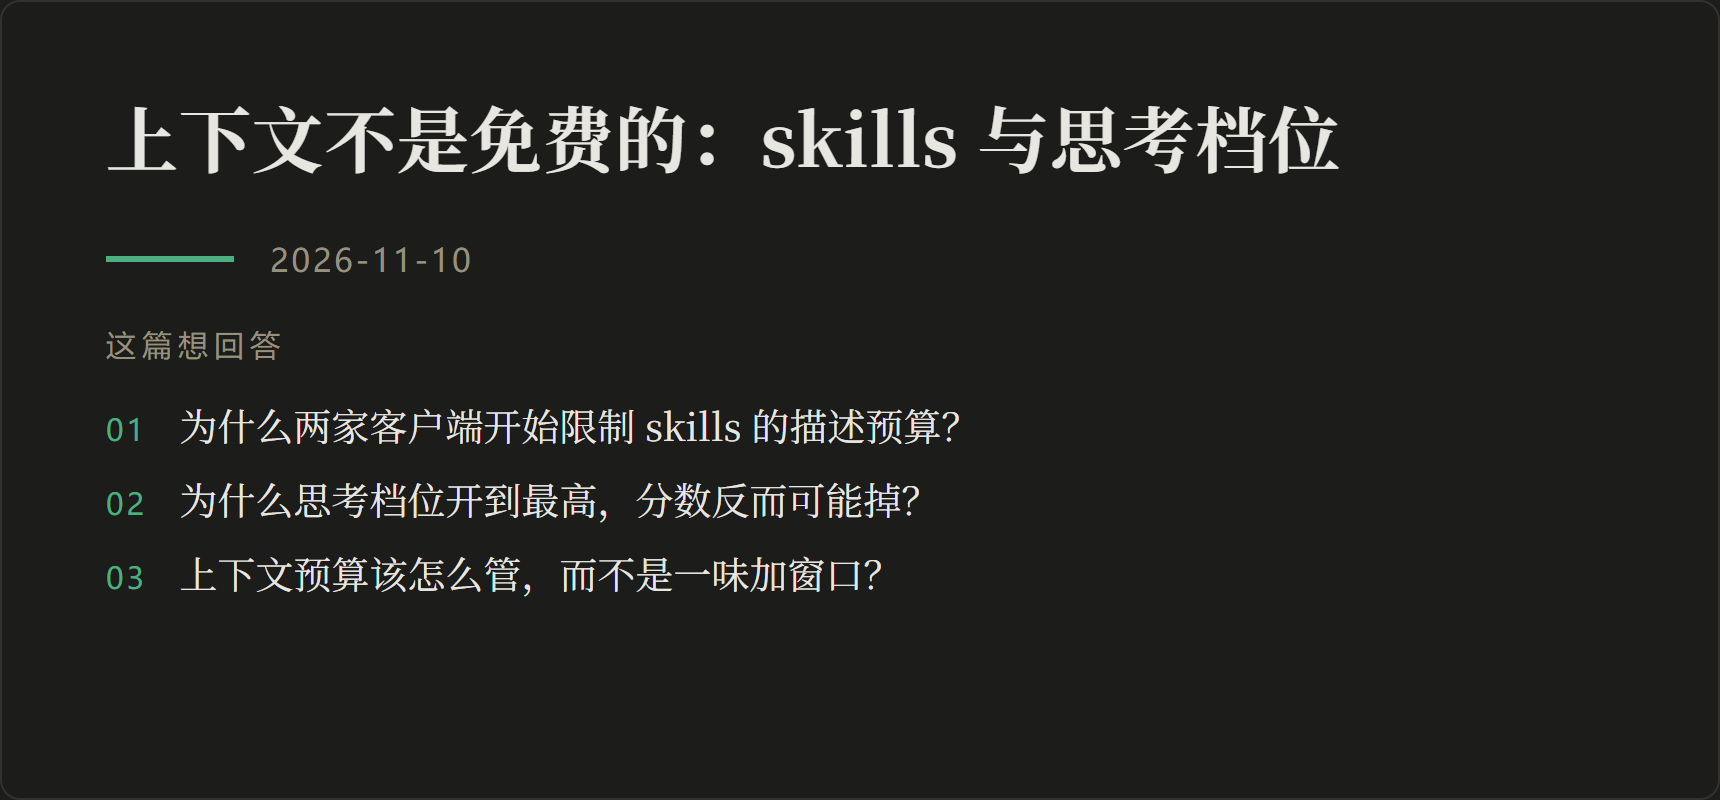
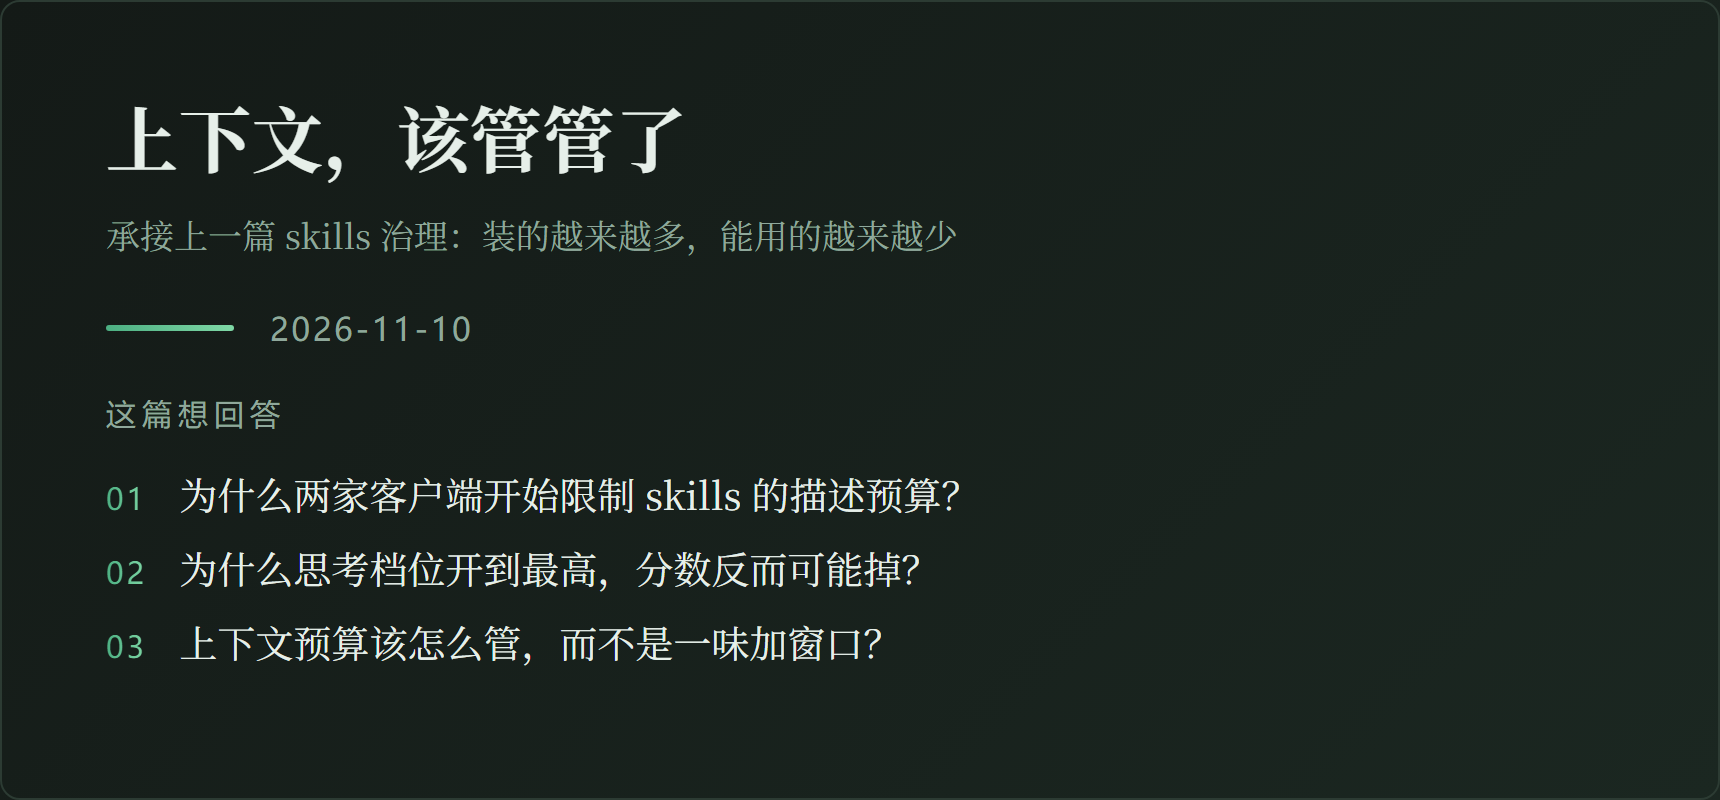
post: 第二篇改版——人话标题+副标题、补上下文治理背景；卡片转淡绿灰渐变色系

diff --git a/scripts/render_cards.py b/scripts/render_cards.py
@@ -22,10 +22,10 @@ SERIES = {
     "和 AI 协作的方式": ("#B5651D", "#E09A4F"),
 }
 THEME = {
-    "light": dict(bg="#F7F6F3", border="#E2E0DA", text="#24292F", muted="#8A8578", hair="#D8D5CC"),
-    "dark":  dict(bg="#1C1C1A", border="#33322E", text="#E8E6E1", muted="#96917F", hair="#3A3833"),
+    "light": dict(bg="linear-gradient(135deg,#F4F7F5 0%,#E8F0EB 100%)", border="#D3DED8", text="#1E2B25", muted="#75877E"),
+    "dark":  dict(bg="linear-gradient(135deg,#141A17 0%,#1B2721 100%)", border="#2C3B33", text="#E6EFE9", muted="#8FA89B"),
 }
-ACCENT = {"light": "#1F7A52", "dark": "#4CAF82"}
+ACCENT = {"light": "linear-gradient(90deg,#1F7A52,#0F5132)", "dark": "linear-gradient(90deg,#4CAF82,#7FD8A6)"}
 W, H = 860, 400
 
 def parse(path):
@@ -65,14 +65,16 @@ html,body{{width:{W}px;height:{H}px;background:{t['bg']}}}
  display:flex;flex-direction:column}}
 h1{{font-size:36px;line-height:1.5;font-weight:700;letter-spacing:.01em}}
 .rulerow{{display:flex;align-items:center;gap:18px;margin:24px 0 22px}}
-.rule{{width:64px;border:0;border-top:3px solid {acc}}}
+.rule{{width:64px;height:3px;border:0;border-radius:2px;background:{acc}}}
 .date{{font-size:16px;color:{t['muted']};font-family:"Microsoft YaHei",sans-serif;letter-spacing:.08em}}
+.sub{{font-size:17px;color:{t["muted"]};margin-top:10px;font-family:"Noto Serif SC",serif}}
 .lab{{font-size:15px;letter-spacing:.2em;color:{t['muted']};font-family:"Microsoft YaHei",sans-serif}}
 ul{{list-style:none;padding:0;margin-top:12px}}
 li{{font-size:19px;line-height:1.95;color:{t['text']}}}
-.n{{font-size:15px;color:{acc};letter-spacing:.1em;margin-right:16px;font-family:"Microsoft YaHei",sans-serif}}
+.n{{font-size:15px;background:{acc};-webkit-background-clip:text;background-clip:text;color:transparent;letter-spacing:.1em;margin-right:16px;font-family:"Microsoft YaHei",sans-serif}}
 </style></head><body><div class="card">
 <h1>{e(meta.get('title',''))}</h1>
+{('<p class="sub">' + e(meta.get('subtitle','')) + '</p>') if meta.get('subtitle') else ''}
 <div class="rulerow"><hr class="rule"><span class="date">{e(meta.get('date',''))}</span></div>
 <div class="lab">这篇想回答</div><ul>{qs}</ul>
 </div></body></html>"""

diff --git a/posts/2026-11-10-context-budget.md b/posts/2026-11-10-context-budget.md
@@ -15,6 +15,20 @@
 
 二是我在 Artificial Analysis 的榜单上看到一个反直觉的现象：Fable 5.2 的 max 档位在 Intelligence Index 上整体分数最高（65），但在单独的 FrontierCode 2.0 编码测试里，High 得分 49.1%、Max 只有 48.8%。更高的思考档位没有带来更好的结果。
 
+两件事看起来一个讲技能、一个讲模型，其实都在说同一件事：上下文里能放的东西是有额度的，而大家以前默认它无限。
+
+## 先补一点背景：上下文治理是怎么变成问题的
+
+早期用大模型，上下文更像"容器"：把资料贴进去，模型读完回答，装不下就分段。但 agent 起来之后，同一个窗口里同时挤进了四类东西——系统提示、工具与技能清单、对话历史、模型自己的推理链。它们不是排队进场，而是**每一轮都一起付费**。
+
+于是业界慢慢形成了三层治理手段：
+
+1. **入口层：渐进式披露（progressive disclosure）。** Agent Skills 的做法是启动时只加载每个技能的名称和描述，正文和 references 按需加载。这解决的是"东西还没用就先占着位置"。
+2. **清单层：预算与裁剪。** 当技能多到描述清单本身成为负担，客户端开始给清单设额度、截断超长描述、把手动技能移出自动清单。这解决的是"光是目录就把目录占满了"。
+3. **推理层：思考档位（reasoning effort）。** 模型在回答前生成多长的推理链，也可以调。链越长通常越强，但它自己写的中间 token 同样占上下文，还挤掉了留给任务材料的空间。
+
+这三层共同指向一件事：**上下文不是免费的空间，而是每轮都要重新结算的预算**。我上一篇讲 skills 治理时说的是"注意力被摩擦耗尽"，那是从用户侧看；这一篇是从模型侧看，两边其实是同一个约束。
+
 ## 讨论中的关键点
 
 1. **Skills 的「免费」是有额度的。** 每个技能约 100 token 的元数据，在 10 个技能时无关痛痒，在 100 个技能时就是一笔固定开销，而且每一轮对话都要重新付。Codex 会把初始 skills 清单限制在上下文窗口的约 2%（窗口未知时约 8000 字符），Claude Code 也有对应的清单预算参数。

diff --git a/README.md b/README.md
@@ -15,8 +15,7 @@
 <!-- 新增文章后在此追加一行：- YYYY-MM-DD [标题](./posts/文件名.md) -->
 
 - 2026-11-09 [Skills 花样众多，损耗的是注意力，边际效益会下降](./posts/2026-11-09-academic-tikz-merge.md) · AI 产品 · 草稿
-- 2026-11-10 [上下文不是免费的：skills 与思考档位](./posts/2026-11-10-context-budget.md) · AI 产品 · 草稿
-- 2026-11-10 [上下文不是免费的：skills 与思考档位](./posts/2026-11-10-context-budget.md) · AI 产品 · 草稿
+- 2026-11-10 [上下文，该管管了](./posts/2026-11-10-context-budget.md) · AI 产品 · 草稿
 
 ## 写作约定
 
